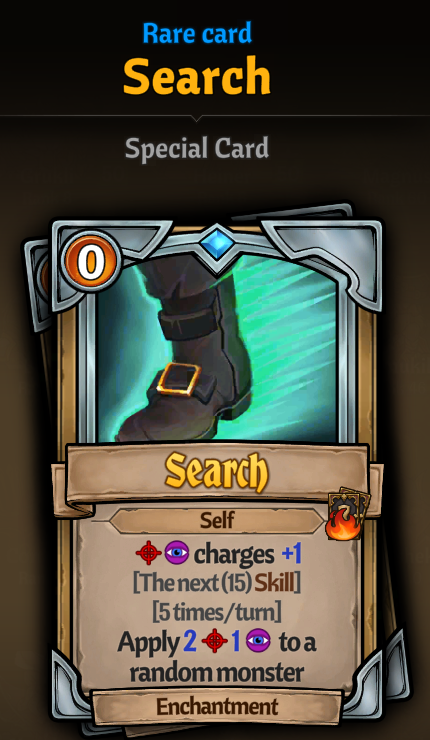
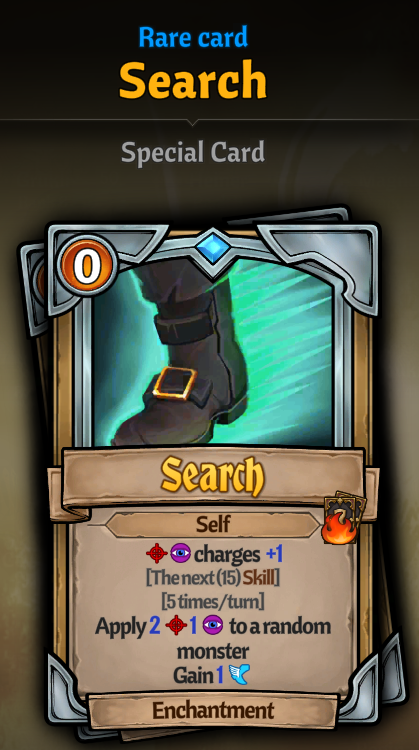
Update for version 1.0.2

diff --git a/ATO-Veteran_Hunter_Andrin_TraitMod/Traits.cs b/ATO-Veteran_Hunter_Andrin_TraitMod/Traits.cs
@@ -14,7 +14,7 @@ namespace TraitMod
     internal class Traits
     {
 
-        public static string[] myTraitList = { "shazixnarmasterofmeleeandranged", "shazixnarmasteroftrack" };
+        public static string[] myTraitList = { "shazixnarmasterofmeleeandranged", "shazixnarmasteroftrack", "shazixnartracker" };
 
         public static void myDoTrait(string _trait, ref Trait __instance)
         {
@@ -75,7 +75,7 @@ namespace TraitMod
                                     teamNpc[i].SetAuraTrait(_character, "mark", 2);
                                 }
                             }
-                            string text = MatchManager.Instance.CreateCardInDictionary("" , "", false);
+                            string text = MatchManager.Instance.CreateCardInDictionary("", "", false);
                             CardData cardData = MatchManager.Instance.GetCardData(text);
                             while (true)
                             {
@@ -100,7 +100,7 @@ namespace TraitMod
                         // 如果是近战攻击，获得强效，抽1
                         else if (_castedCard.GetCardTypes().Contains(Enums.CardType.Melee_Attack))
                         {
-                            string text = MatchManager.Instance.CreateCardInDictionary("" , "", false);
+                            string text = MatchManager.Instance.CreateCardInDictionary("", "", false);
                             CardData cardData = MatchManager.Instance.GetCardData(text);
                             while (true)
                             {
@@ -125,6 +125,7 @@ namespace TraitMod
                     }
                 }
             }
+
             else if (_trait == "shazixnarmasteroftrack")
             {
                 if (MatchManager.Instance != null && _castedCard != null)
@@ -156,6 +157,25 @@ namespace TraitMod
                             }
                         }
                         return;
+                    }
+                }
+            }
+
+            else if (_trait == "shazixnartracker")
+            {
+                if (_character.HeroData != null)
+                {
+                    NPC[] teamNPC = MatchManager.Instance.GetTeamNPC();
+                    for (int i = 0; i < teamNPC.Length; i++)
+                    {
+                        if (teamNPC[i] != null && teamNPC[i].Alive)
+                        {
+                            teamNPC[i].SetAuraTrait(_character, "mark", 1);
+                            if (teamNPC[i].NPCItem != null)
+                            {
+                                teamNPC[i].NPCItem.ScrollCombatText(Texts.Instance.GetText("traits_Tracker", ""), Enums.CombatScrollEffectType.Trait);
+                            }
+                        }
                     }
                 }
             }

diff --git a/ATO-Veteran_Hunter_Andrin_TraitMod/Plugin.cs b/ATO-Veteran_Hunter_Andrin_TraitMod/Plugin.cs
@@ -11,7 +11,7 @@ namespace VeteranHunterAndrin
     [BepInProcess("AcrossTheObelisk.exe")]
     public class Plugin : BaseUnityPlugin
     {
-        internal const int ModDate = 20250728;
+        internal const int ModDate = 20250801;
         private readonly Harmony harmony = new(PluginInfo.PLUGIN_GUID);
         internal static ManualLogSource Log;
         private void Awake()
@@ -22,7 +22,7 @@ namespace VeteranHunterAndrin
             Essentials.RegisterMod(
                 _name: PluginInfo.PLUGIN_NAME,
                 _author: "Shazixnar",
-                _description: "Redone Evelyn traits and element cards, as well as a perk.",
+                _description: "Redone Andrin's traits.",
                 _version: PluginInfo.PLUGIN_VERSION,
                 _date: ModDate,
                 _link: @"https://across-the-obelisk.thunderstore.io/package/Shazixnar/Veteran_Hunter_Andrin/",

diff --git a/CHANGELOG.md b/CHANGELOG.md
@@ -1,3 +1,7 @@
+# 1.0.2
+
+Redo initial trait and change two enchantments.
+
 # 1.0.1
 
 Fix a bug.
